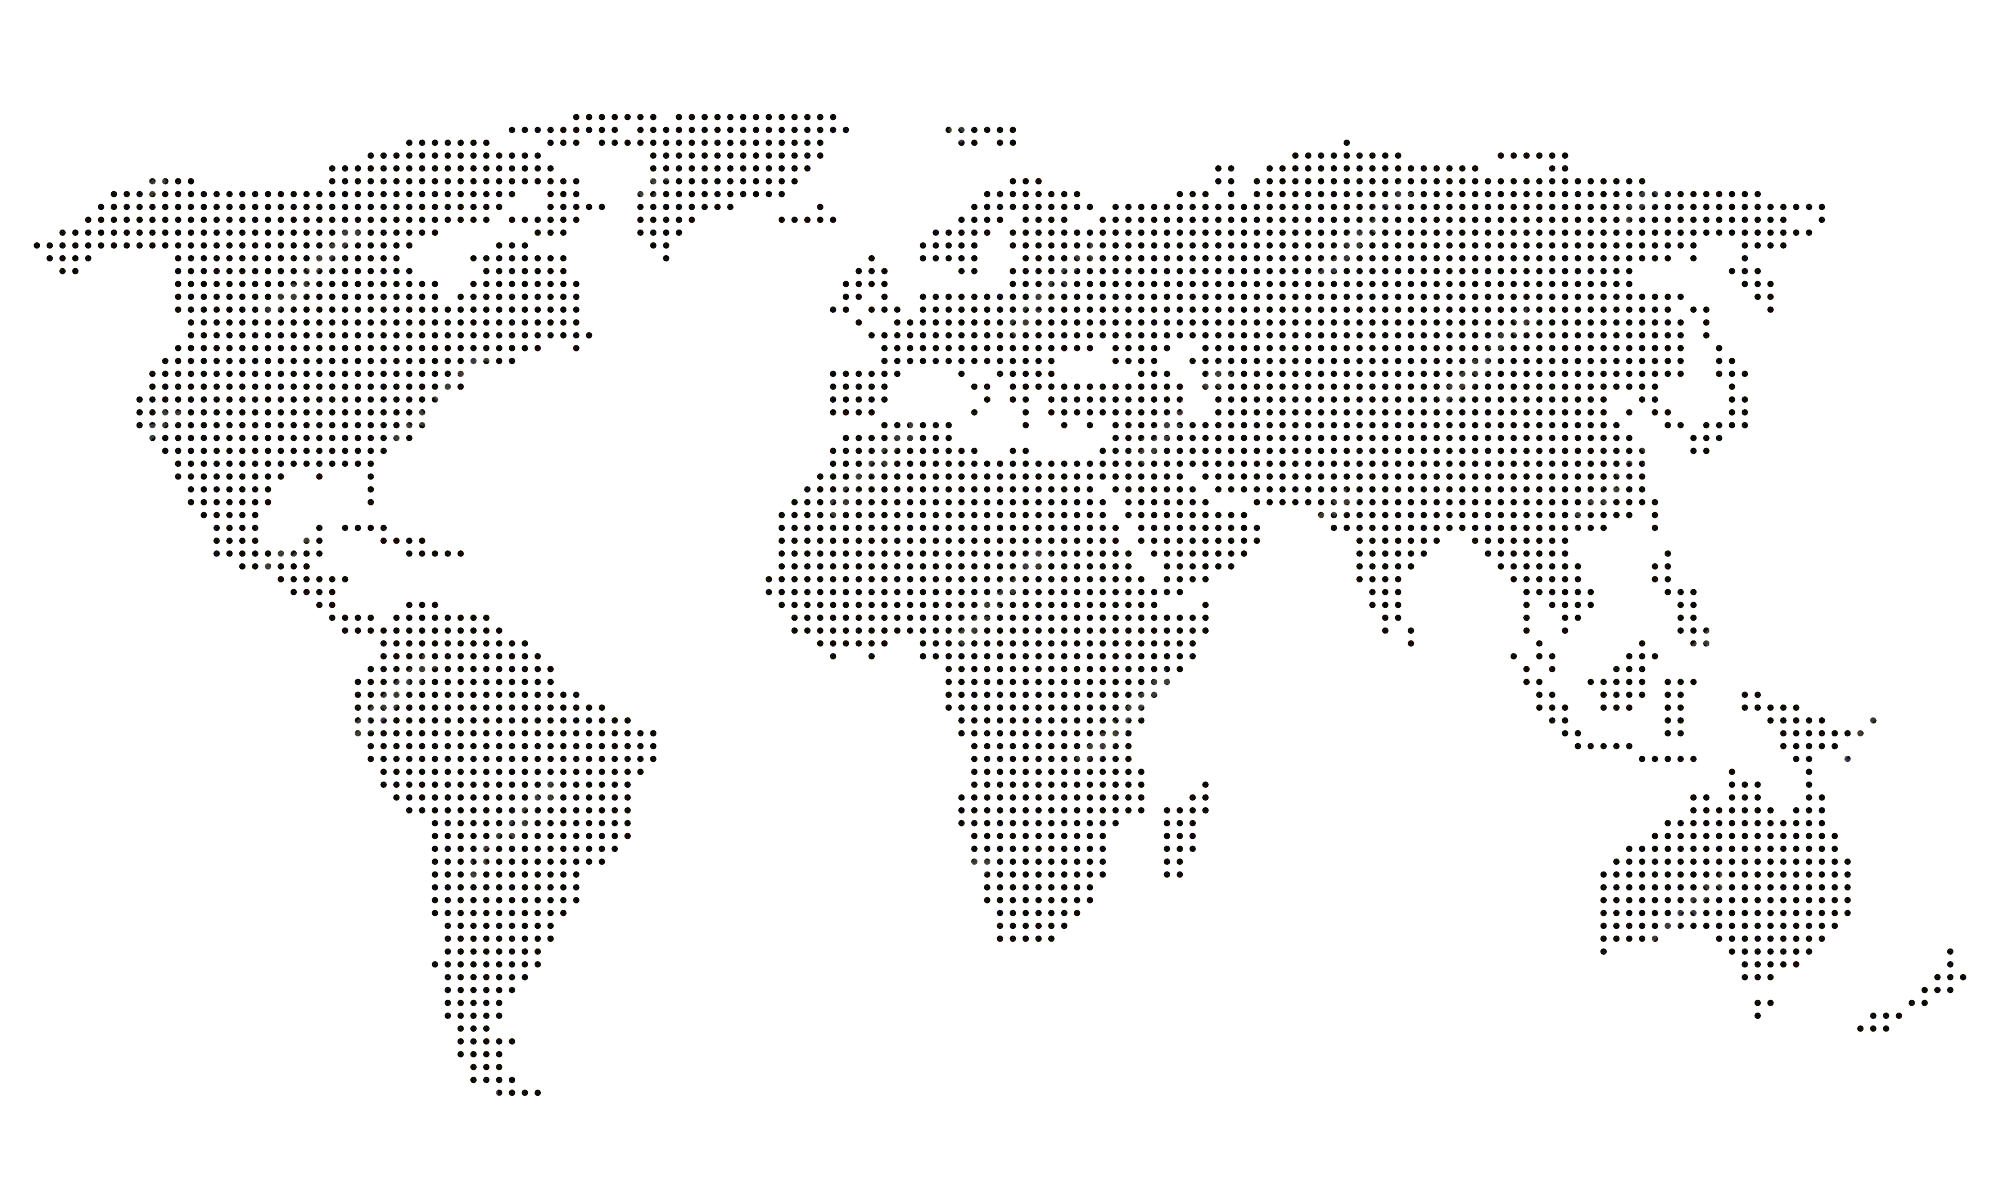
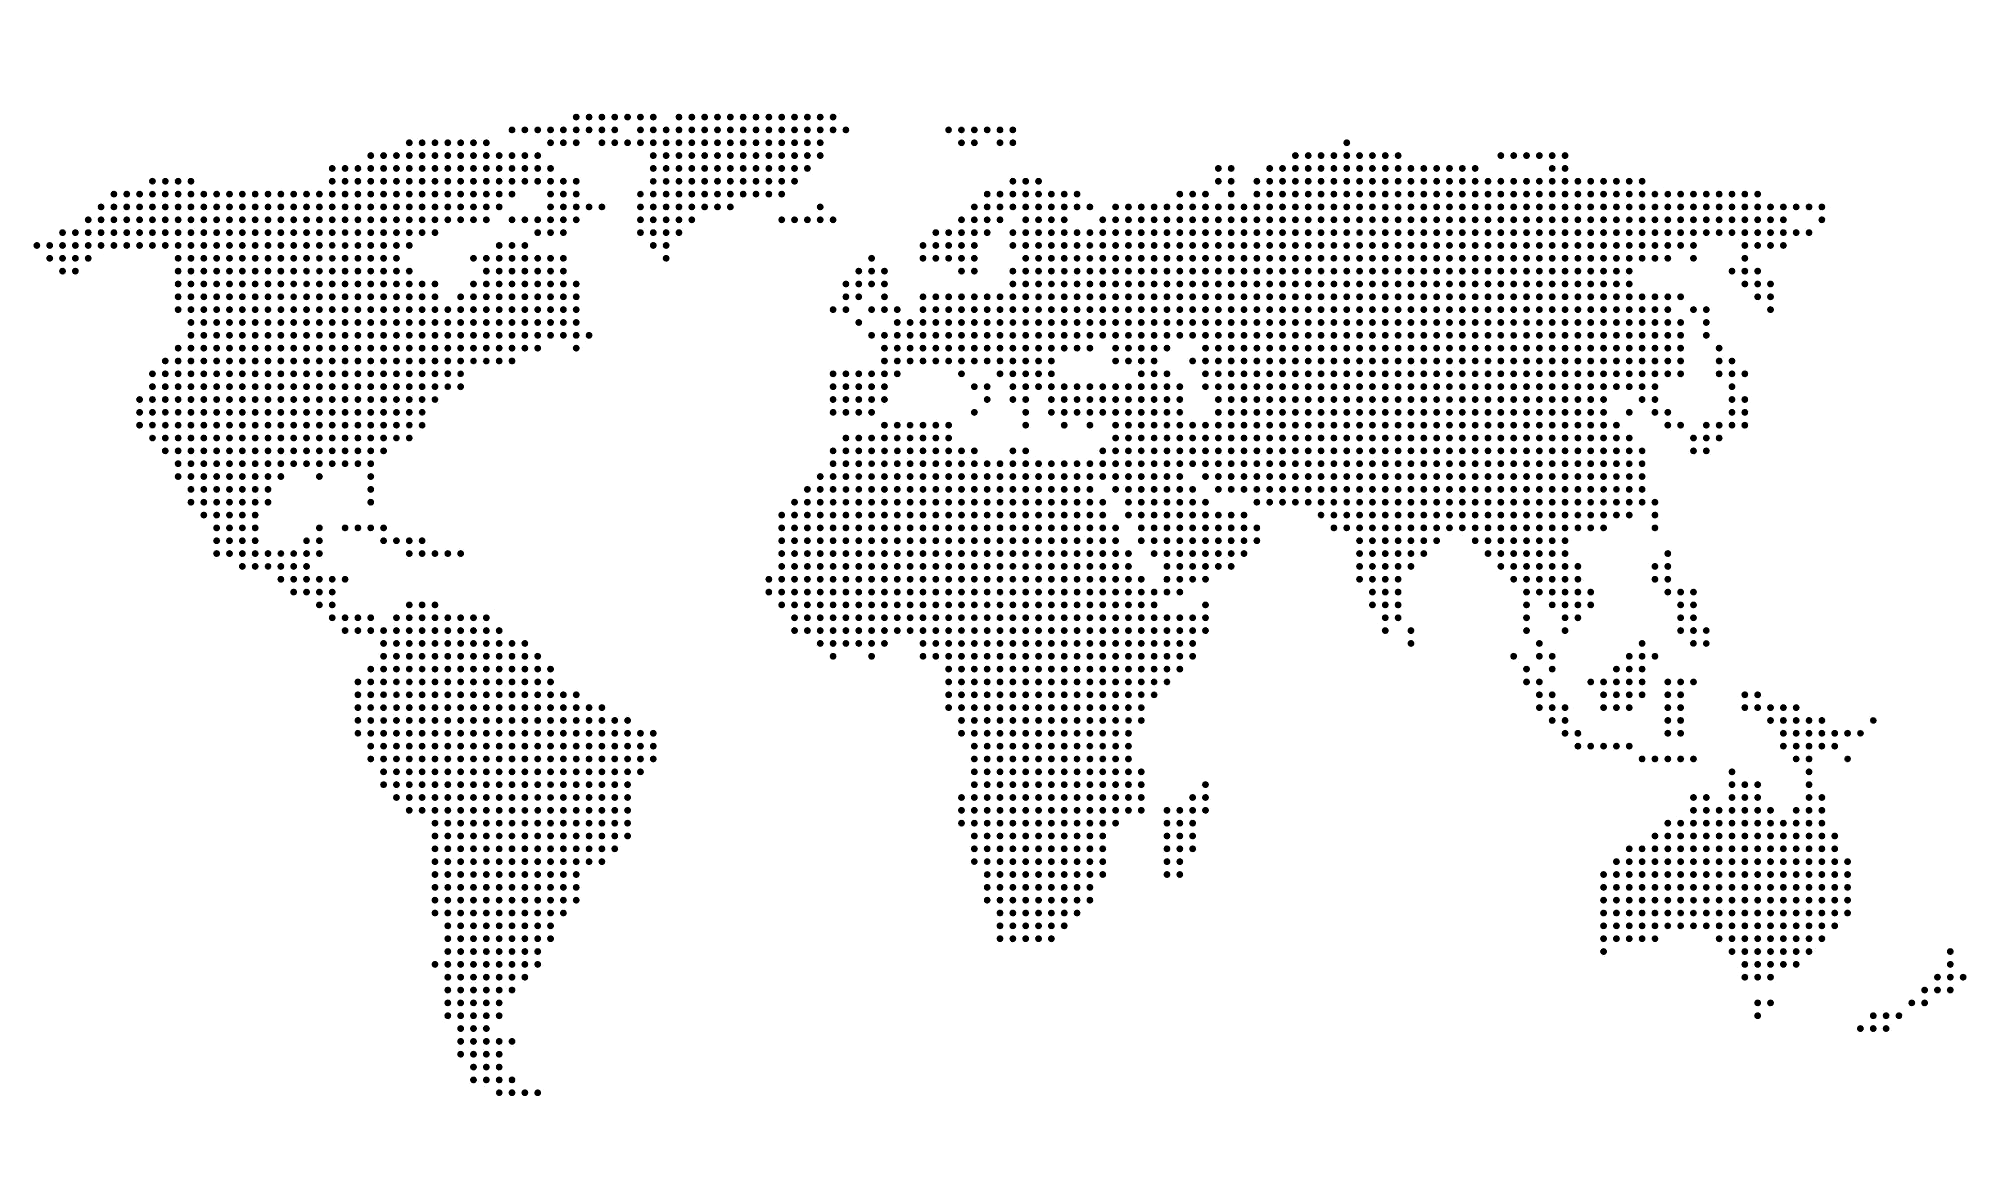
a

diff --git a/components/about/map-section.tsx b/components/about/map-section.tsx
@@ -3,8 +3,18 @@
 import { gsap } from "gsap"
 import { useEffect, useRef } from "react"
 
-const WORLD_PATH =
-  "M5,25 C10,25 15,20 20,20 C25,20 30,25 35,25 C40,25 45,20 50,20 C55,20 60,25 65,25 C70,25 75,20 80,20 C85,20 90,25 95,25"
+interface City {
+  name: string
+  coordinates: [number, number]
+  region: string
+}
+
+const cities: City[] = [
+  { name: "Toronto", coordinates: [23, 35], region: "América" },
+  { name: "Barcelona", coordinates: [47, 35], region: "Europa" },
+  { name: "Madrid", coordinates: [45, 37], region: "Europa" },
+  { name: "Berlín", coordinates: [50, 32], region: "Europa" },
+]
 
 export function MapSection() {
   const mapRef = useRef<HTMLDivElement>(null)
@@ -12,128 +22,171 @@ export function MapSection() {
   useEffect(() => {
     if (!mapRef.current) return
 
-    // Animar las líneas de conexión
-    gsap.from(".location-line", {
-      strokeDashoffset: 1000,
-      duration: 2,
-      ease: "none",
-      stagger: 0.3,
-    })
-
-    // Animar los puntos de ubicación
-    gsap.from(".location-point", {
+    // Animar los puntos de las ciudades
+    gsap.from(".city-point", {
       scale: 0,
       opacity: 0,
-      duration: 0.5,
-      ease: "back.out(1.7)",
+      duration: 0.8,
       stagger: 0.2,
+      ease: "elastic.out(1, 0.5)",
+    })
+
+    // Animar las líneas de conexión
+    gsap.from(".city-line", {
+      strokeDashoffset: 100,
+      duration: 1.5,
+      stagger: 0.1,
+      ease: "none",
+    })
+
+    // Animar el pulso de los puntos
+    gsap.to(".city-pulse", {
+      scale: 1.5,
+      opacity: 0,
+      duration: 1.5,
+      repeat: -1,
+      ease: "none",
+      stagger: {
+        each: 0.5,
+        repeat: -1,
+      },
     })
   }, [])
 
   return (
-    <section className="relative min-h-screen flex items-center justify-center overflow-hidden bg-black py-20">
-      <div
-        className="absolute inset-0"
-        style={{
-          backgroundImage: "radial-gradient(circle at 50% 50%, rgba(20, 20, 20, 1) 0%, rgba(0, 0, 0, 1) 100%)",
-          backgroundSize: "100% 100%",
-        }}
-      />
+    <section className="relative min-h-screen flex items-center justify-center overflow-hidden py-20 bg-black">
+      <div className="container mx-auto px-4">
+        <h2 className="text-4xl md:text-5xl lg:text-6xl font-light text-center mb-16 text-white font-mono">
+          <span className="opacity-50">[</span> Presencia global <span className="opacity-50">]</span>
+        </h2>
 
-      {/* Grid de fondo */}
-      <div
-        className="absolute inset-0"
-        style={{
-          backgroundImage: `
-          linear-gradient(to right, rgba(50, 50, 50, 0.05) 1px, transparent 1px),
-          linear-gradient(to bottom, rgba(50, 50, 50, 0.05) 1px, transparent 1px)
-        `,
-          backgroundSize: "50px 50px",
-        }}
-      />
-
-      <div className="container mx-auto px-4 relative z-10">
         <div ref={mapRef} className="relative w-full aspect-[2/1] max-w-6xl mx-auto">
-          <svg viewBox="0 0 100 50" className="w-full h-full">
-            {/* Líneas base del mundo */}
-            <path d={WORLD_PATH} className="stroke-white/10" fill="none" strokeWidth="0.15" />
+          {/* Mapa base */}
+          <svg
+            viewBox="0 0 100 50"
+            className="w-full h-full"
+            style={{
+              filter: "drop-shadow(0 0 10px rgba(147, 51, 234, 0.3))",
+            }}
+          >
+            {/* Grid de fondo */}
+            <defs>
+              <pattern id="grid" width="4" height="4" patternUnits="userSpaceOnUse" className="text-purple-600/10">
+                <path d="M 4 0 L 0 0 0 4" fill="none" stroke="currentColor" strokeWidth="0.2" />
+              </pattern>
+            </defs>
+            <rect width="100" height="50" fill="url(#grid)" />
 
-            {/* Líneas de ubicación */}
-            <g className="location-line stroke-cyan-400/50">
-              {/* Canadá */}
+            {/* Continentes con estilo tech */}
+            <g className="text-purple-900/20">
               <path
-                d="M20,20 L25,15 L30,15"
-                fill="none"
-                strokeWidth="0.15"
-                strokeDasharray="1000"
-                style={{ filter: "drop-shadow(0 0 2px #2dd4bf)" }}
+                d="M15 15 L35 15 L40 25 L30 35 L15 30 Z" // América del Norte
+                className="fill-current"
+                style={{ filter: "url(#glow)" }}
               />
-              {/* España */}
               <path
-                d="M45,25 L50,20 L55,20"
-                fill="none"
-                strokeWidth="0.15"
-                strokeDasharray="1000"
-                style={{ filter: "drop-shadow(0 0 2px #2dd4bf)" }}
+                d="M25 35 L30 45 L20 48 L18 38 Z" // América del Sur
+                className="fill-current"
+                style={{ filter: "url(#glow)" }}
               />
-              {/* Berlín */}
               <path
-                d="M52,22 L57,17 L62,17"
-                fill="none"
-                strokeWidth="0.15"
-                strokeDasharray="1000"
-                style={{ filter: "drop-shadow(0 0 2px #2dd4bf)" }}
+                d="M45 20 L55 20 L58 35 L43 38 L40 30 Z" // Europa
+                className="fill-current"
+                style={{ filter: "url(#glow)" }}
+              />
+              <path
+                d="M60 20 L80 25 L75 40 L58 38 Z" // Asia
+                className="fill-current"
+                style={{ filter: "url(#glow)" }}
+              />
+              <path
+                d="M45 40 L60 40 L58 48 L48 48 Z" // África
+                className="fill-current"
+                style={{ filter: "url(#glow)" }}
+              />
+              <path
+                d="M82 42 L85 45 L80 48 L78 45 Z" // Australia
+                className="fill-current"
+                style={{ filter: "url(#glow)" }}
               />
             </g>
 
-            {/* Puntos de ubicación */}
-            <g className="location-points">
-              {/* Canadá */}
-              <g transform="translate(30,15)">
-                <circle
-                  r="0.5"
-                  className="location-point fill-cyan-400"
-                  style={{ filter: "drop-shadow(0 0 2px #2dd4bf)" }}
-                />
-                <text x="1" y="0" className="text-[2px] fill-cyan-400/70 font-mono" dominantBaseline="middle">
-                  TORONTO
-                </text>
-              </g>
-              {/* España */}
-              <g transform="translate(55,20)">
-                <circle
-                  r="0.5"
-                  className="location-point fill-cyan-400"
-                  style={{ filter: "drop-shadow(0 0 2px #2dd4bf)" }}
-                />
-                <text x="1" y="0" className="text-[2px] fill-cyan-400/70 font-mono" dominantBaseline="middle">
-                  ESPAÑA
-                </text>
-              </g>
-              {/* Berlín */}
-              <g transform="translate(62,17)">
-                <circle
-                  r="0.5"
-                  className="location-point fill-cyan-400"
-                  style={{ filter: "drop-shadow(0 0 2px #2dd4bf)" }}
-                />
-                <text x="1" y="0" className="text-[2px] fill-cyan-400/70 font-mono" dominantBaseline="middle">
-                  BERLÍN
-                </text>
-              </g>
-            </g>
+            {/* Efecto de resplandor */}
+            <defs>
+              <filter id="glow">
+                <feGaussianBlur stdDeviation="1" result="blur" />
+                <feMerge>
+                  <feMergeNode in="blur" />
+                  <feMergeNode in="SourceGraphic" />
+                </feMerge>
+              </filter>
+            </defs>
           </svg>
+
+          {/* Líneas de conexión */}
+          <svg viewBox="0 0 100 50" className="absolute inset-0">
+            {cities.map((city, index) =>
+              cities
+                .slice(index + 1)
+                .map((otherCity, otherIndex) => (
+                  <line
+                    key={`${city.name}-${otherCity.name}`}
+                    x1={`${city.coordinates[0]}%`}
+                    y1={`${city.coordinates[1]}%`}
+                    x2={`${otherCity.coordinates[0]}%`}
+                    y2={`${otherCity.coordinates[1]}%`}
+                    className="city-line stroke-purple-500"
+                    strokeWidth="0.2"
+                    strokeDasharray="0.5 1"
+                    style={{ filter: "url(#glow)" }}
+                  />
+                )),
+            )}
+          </svg>
+
+          {/* Puntos de las ciudades */}
+          {cities.map((city) => (
+            <div
+              key={city.name}
+              className="absolute -translate-x-1/2 -translate-y-1/2 flex flex-col items-center"
+              style={{
+                left: `${city.coordinates[0]}%`,
+                top: `${city.coordinates[1]}%`,
+              }}
+            >
+              {/* Punto principal */}
+              <div className="city-point w-2 h-2 rounded-full bg-purple-500 shadow-glow" />
+              {/* Efecto de pulso */}
+              <div className="city-pulse absolute inset-0 w-2 h-2 rounded-full bg-purple-500 opacity-75" />
+              {/* Nombre de la ciudad */}
+              <div className="mt-3 px-2 py-1 rounded border border-purple-500/20 bg-black/80">
+                <span className="text-xs font-mono text-purple-300 whitespace-nowrap">{city.name}</span>
+              </div>
+            </div>
+          ))}
         </div>
 
-        {/* Título con estética tech */}
-        <div className="absolute bottom-0 left-1/2 -translate-x-1/2 mb-8">
-          <div className="px-4 py-2 bg-black/50 border border-cyan-400/20 backdrop-blur-sm">
-            <p className="text-cyan-400/70 text-sm font-mono">
-              <span className="opacity-50">&lt;</span> GLOBAL PRESENCE <span className="opacity-50">/&gt;</span>
-            </p>
-          </div>
+        {/* Leyenda de regiones */}
+        <div className="mt-12 flex flex-wrap justify-center gap-8">
+          {Array.from(new Set(cities.map((city) => city.region))).map((region) => (
+            <div
+              key={region}
+              className="flex items-center gap-2 px-3 py-1 rounded-sm border border-purple-500/20 bg-black/80"
+            >
+              <div className="w-1.5 h-1.5 rounded-full bg-purple-500 shadow-glow" />
+              <span className="text-xs font-mono text-purple-300">{region}</span>
+            </div>
+          ))}
         </div>
       </div>
+
+      {/* Estilos globales para el efecto de resplandor */}
+      <style jsx global>{`
+        .shadow-glow {
+          box-shadow: 0 0 10px theme('colors.purple.500'),
+                     0 0 20px theme('colors.purple.500');
+        }
+      `}</style>
     </section>
   )
 }
